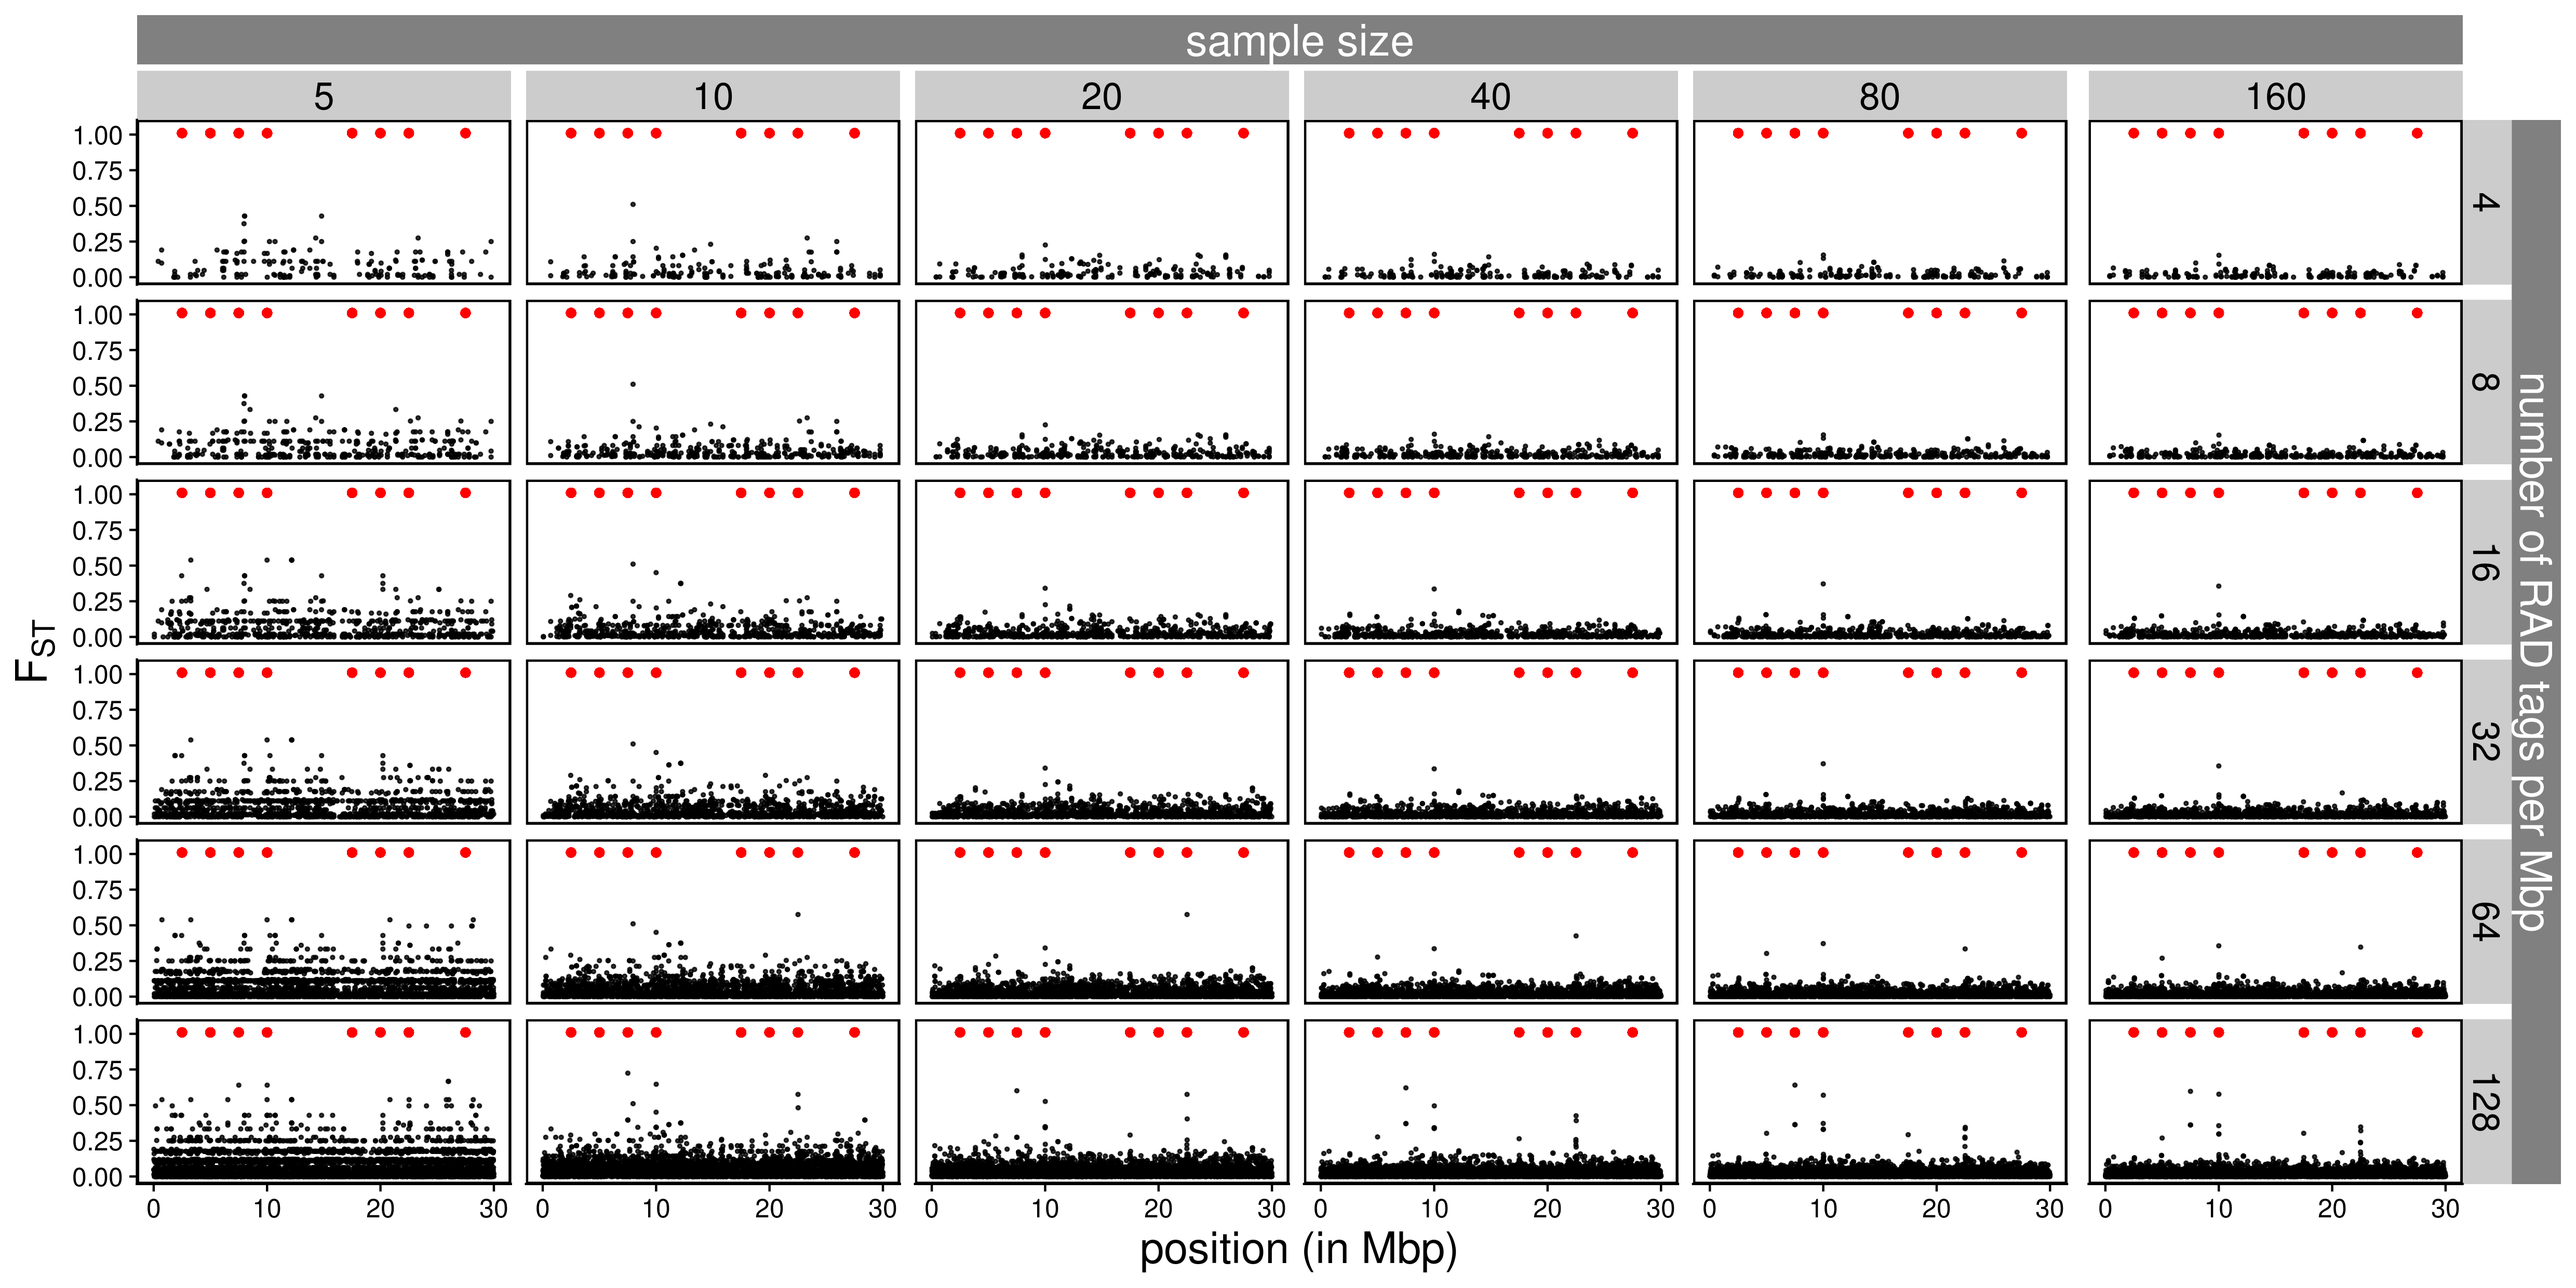
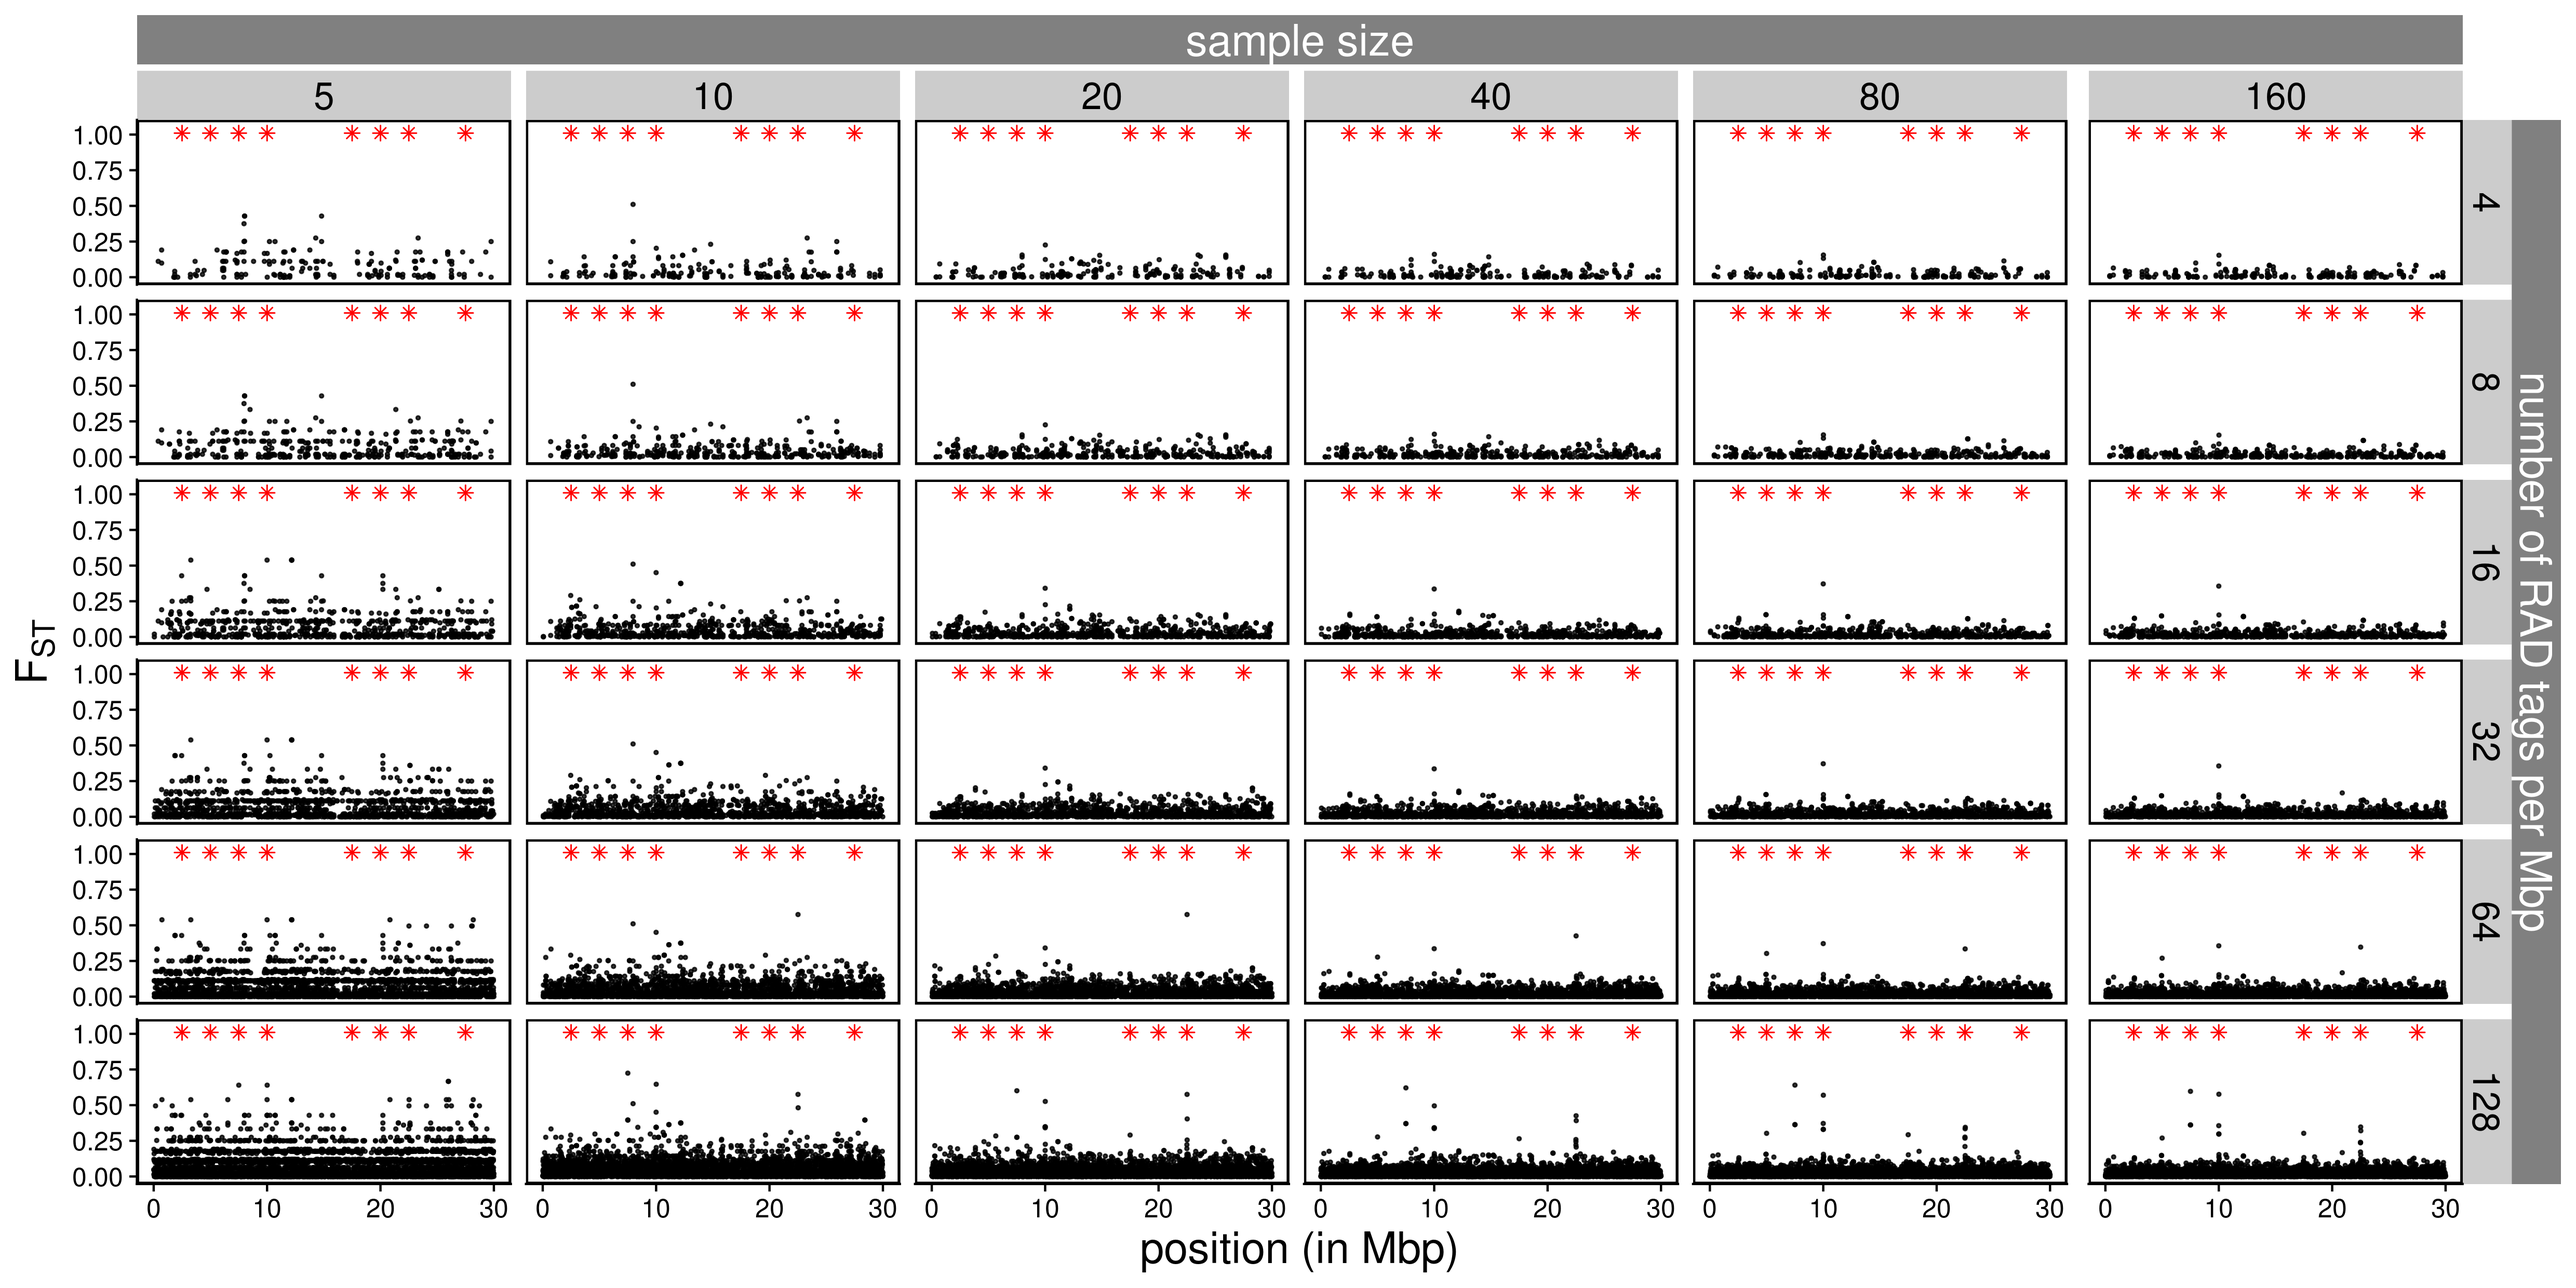
used asterisks instead of points to mark sites under selection

diff --git a/markdowns/figures.md b/markdowns/figures.md
@@ -801,7 +801,7 @@ fst_plot <- fst_n_ind_final %>%
   fixed_windowed_fst(1000) %>%
   ggplot(aes(x=position/10^6, y=fst)) +
   geom_point(alpha=0.8, size=0.15) +
-  geom_point(data=mutations_final_m2, aes(x=position/10^6, y=1.01), color="red", size=2, shape=16) +
+  geom_point(data=mutations_final_m2, aes(x=position/10^6, y=1.01), color="red", size=2, shape=8) +
   ylim(NA, 1.05) +
   labs(x = "position (in Mbp)", y = expression(F[ST])) + 
   facet_grid(coverage~sample_size) +
@@ -840,7 +840,7 @@ fst_plot_radseq <- maf_final %>%
   mutate(n_rad_tag = n_rad_tag/30) %>%
   ggplot(aes(x=position/10^6, y=fst)) +
   geom_point(alpha=0.8, size=0.5) +
-  geom_point(data=mutations_final_m2, aes(x=position/10^6, y=1.01), color="red", size=2, shape=16) +
+  geom_point(data=mutations_final_m2, aes(x=position/10^6, y=1.01), color="red", size=2, shape=8) +
   ylim(c(NA, 1.05)) +
   facet_grid(n_rad_tag~sample_size) +
   labs(x = "position (in Mbp)", y = expression(F[ST])) + 
